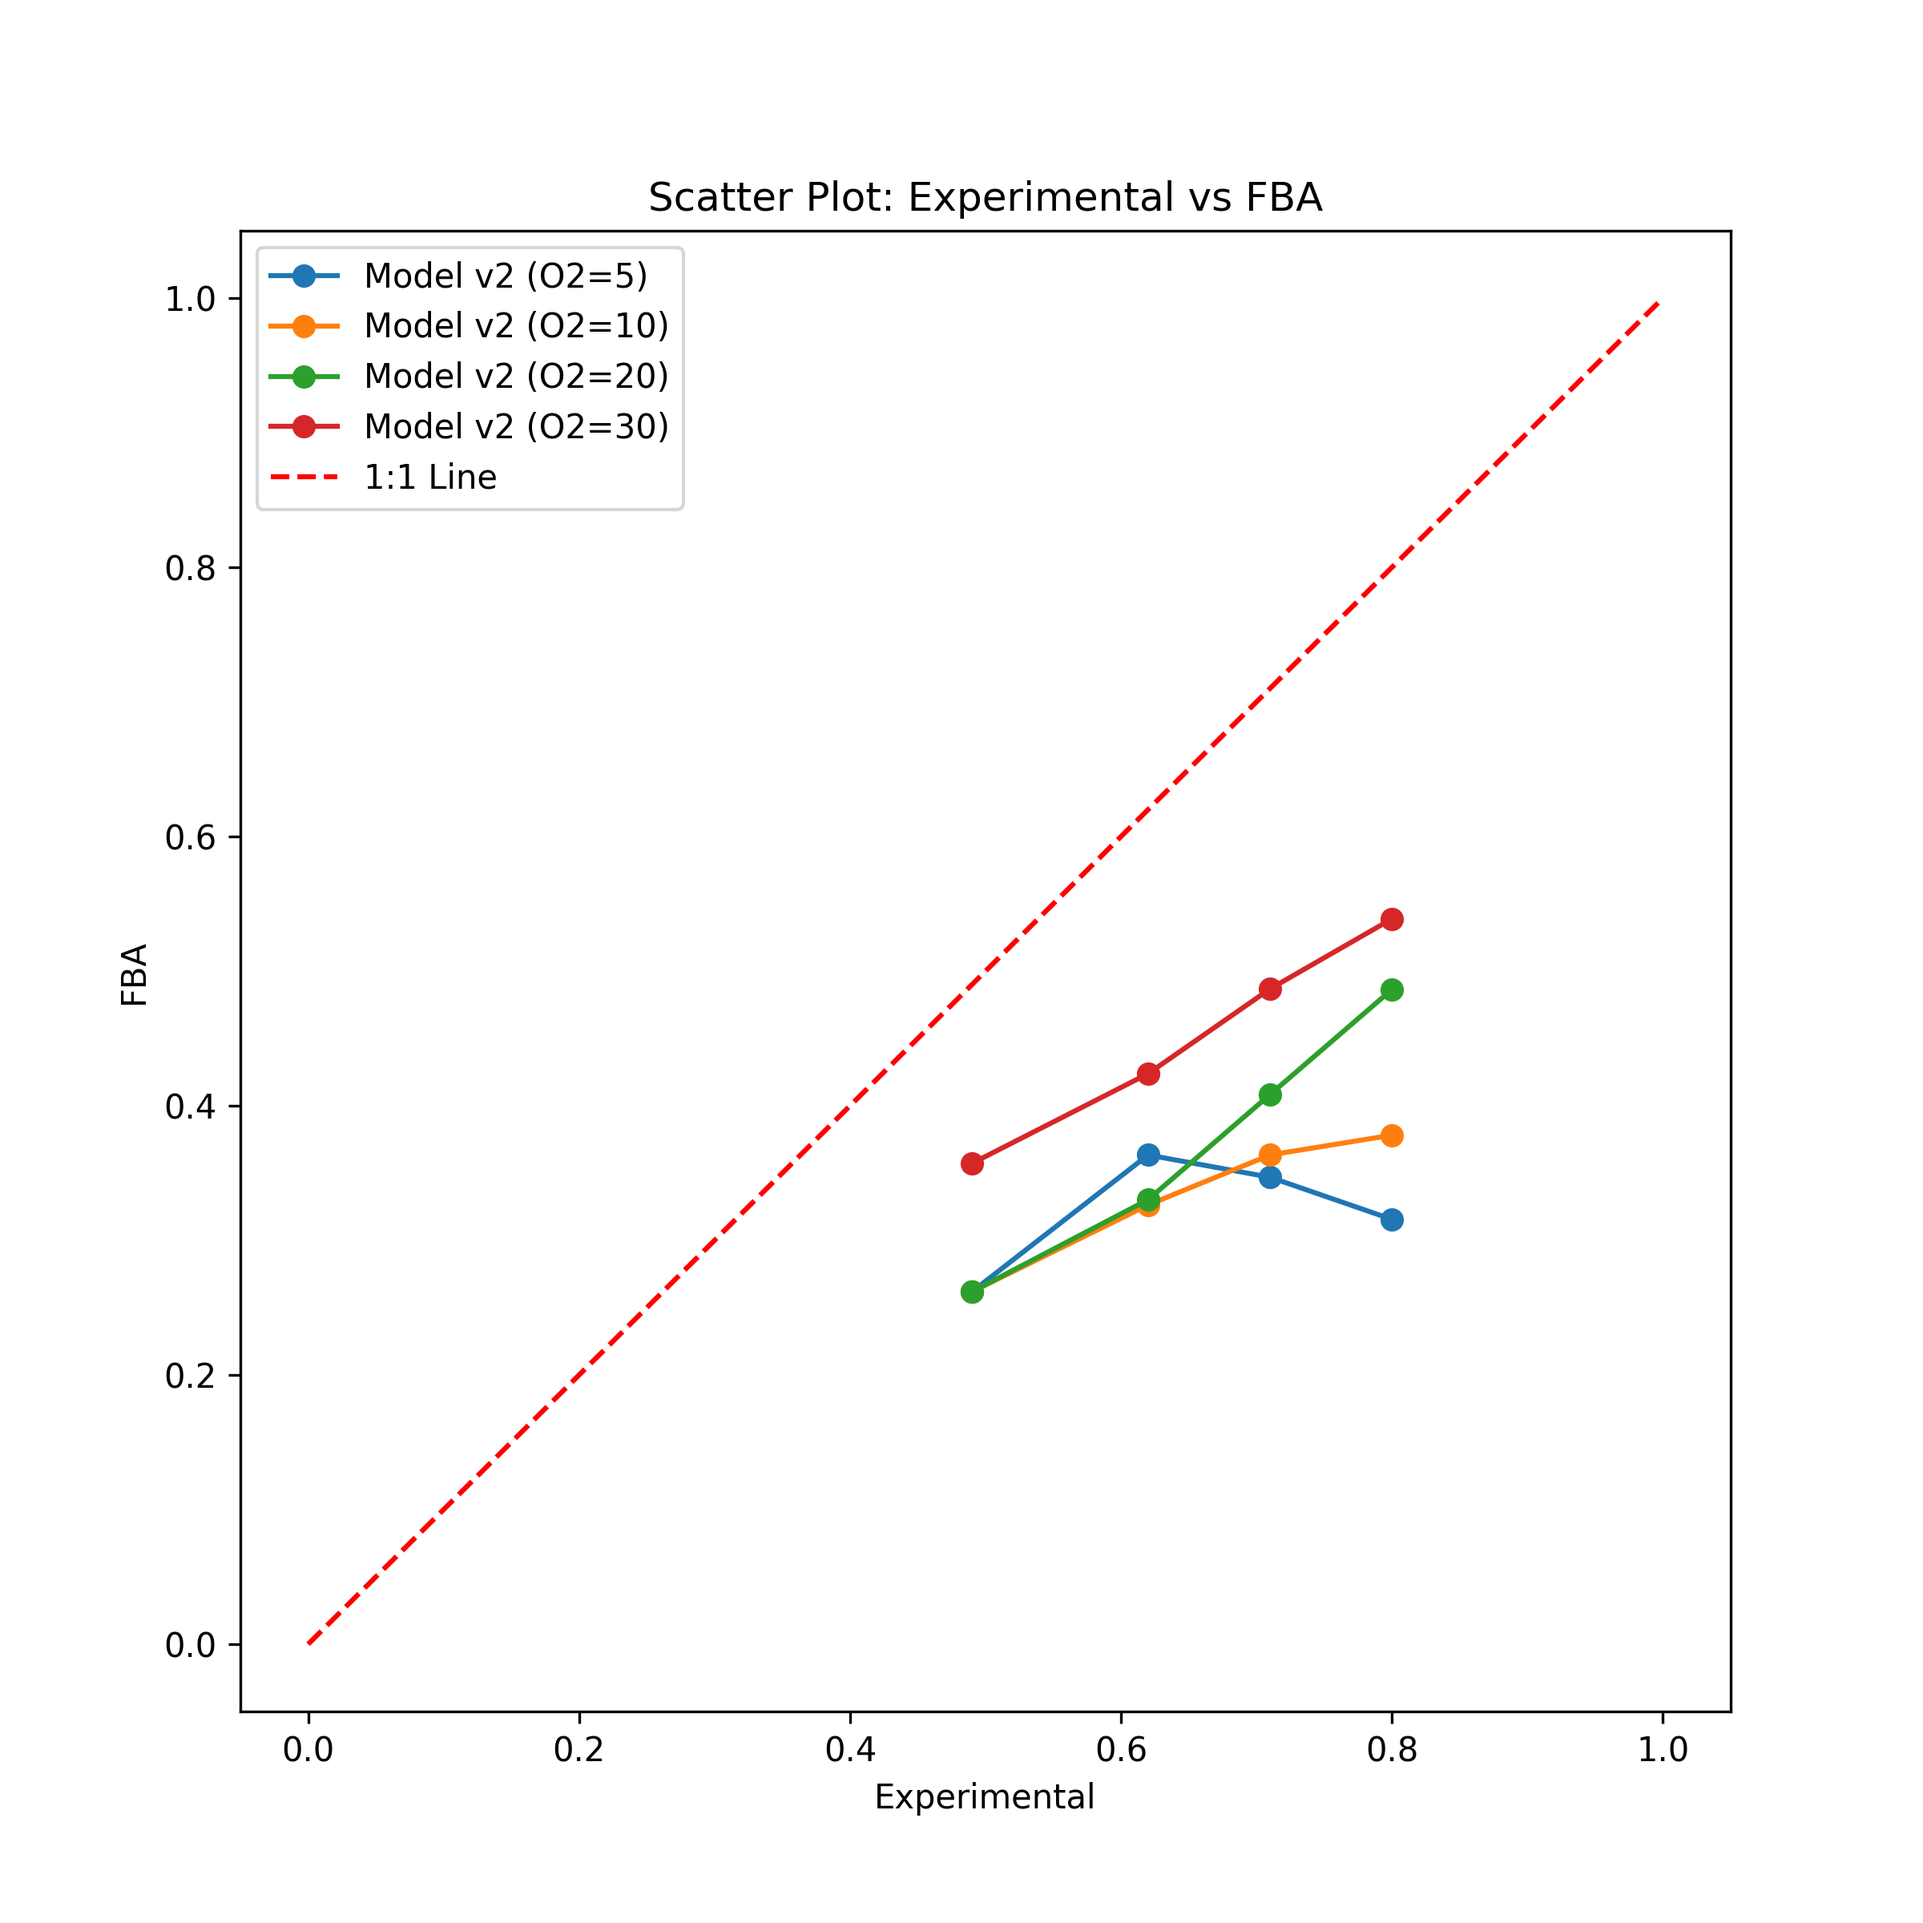
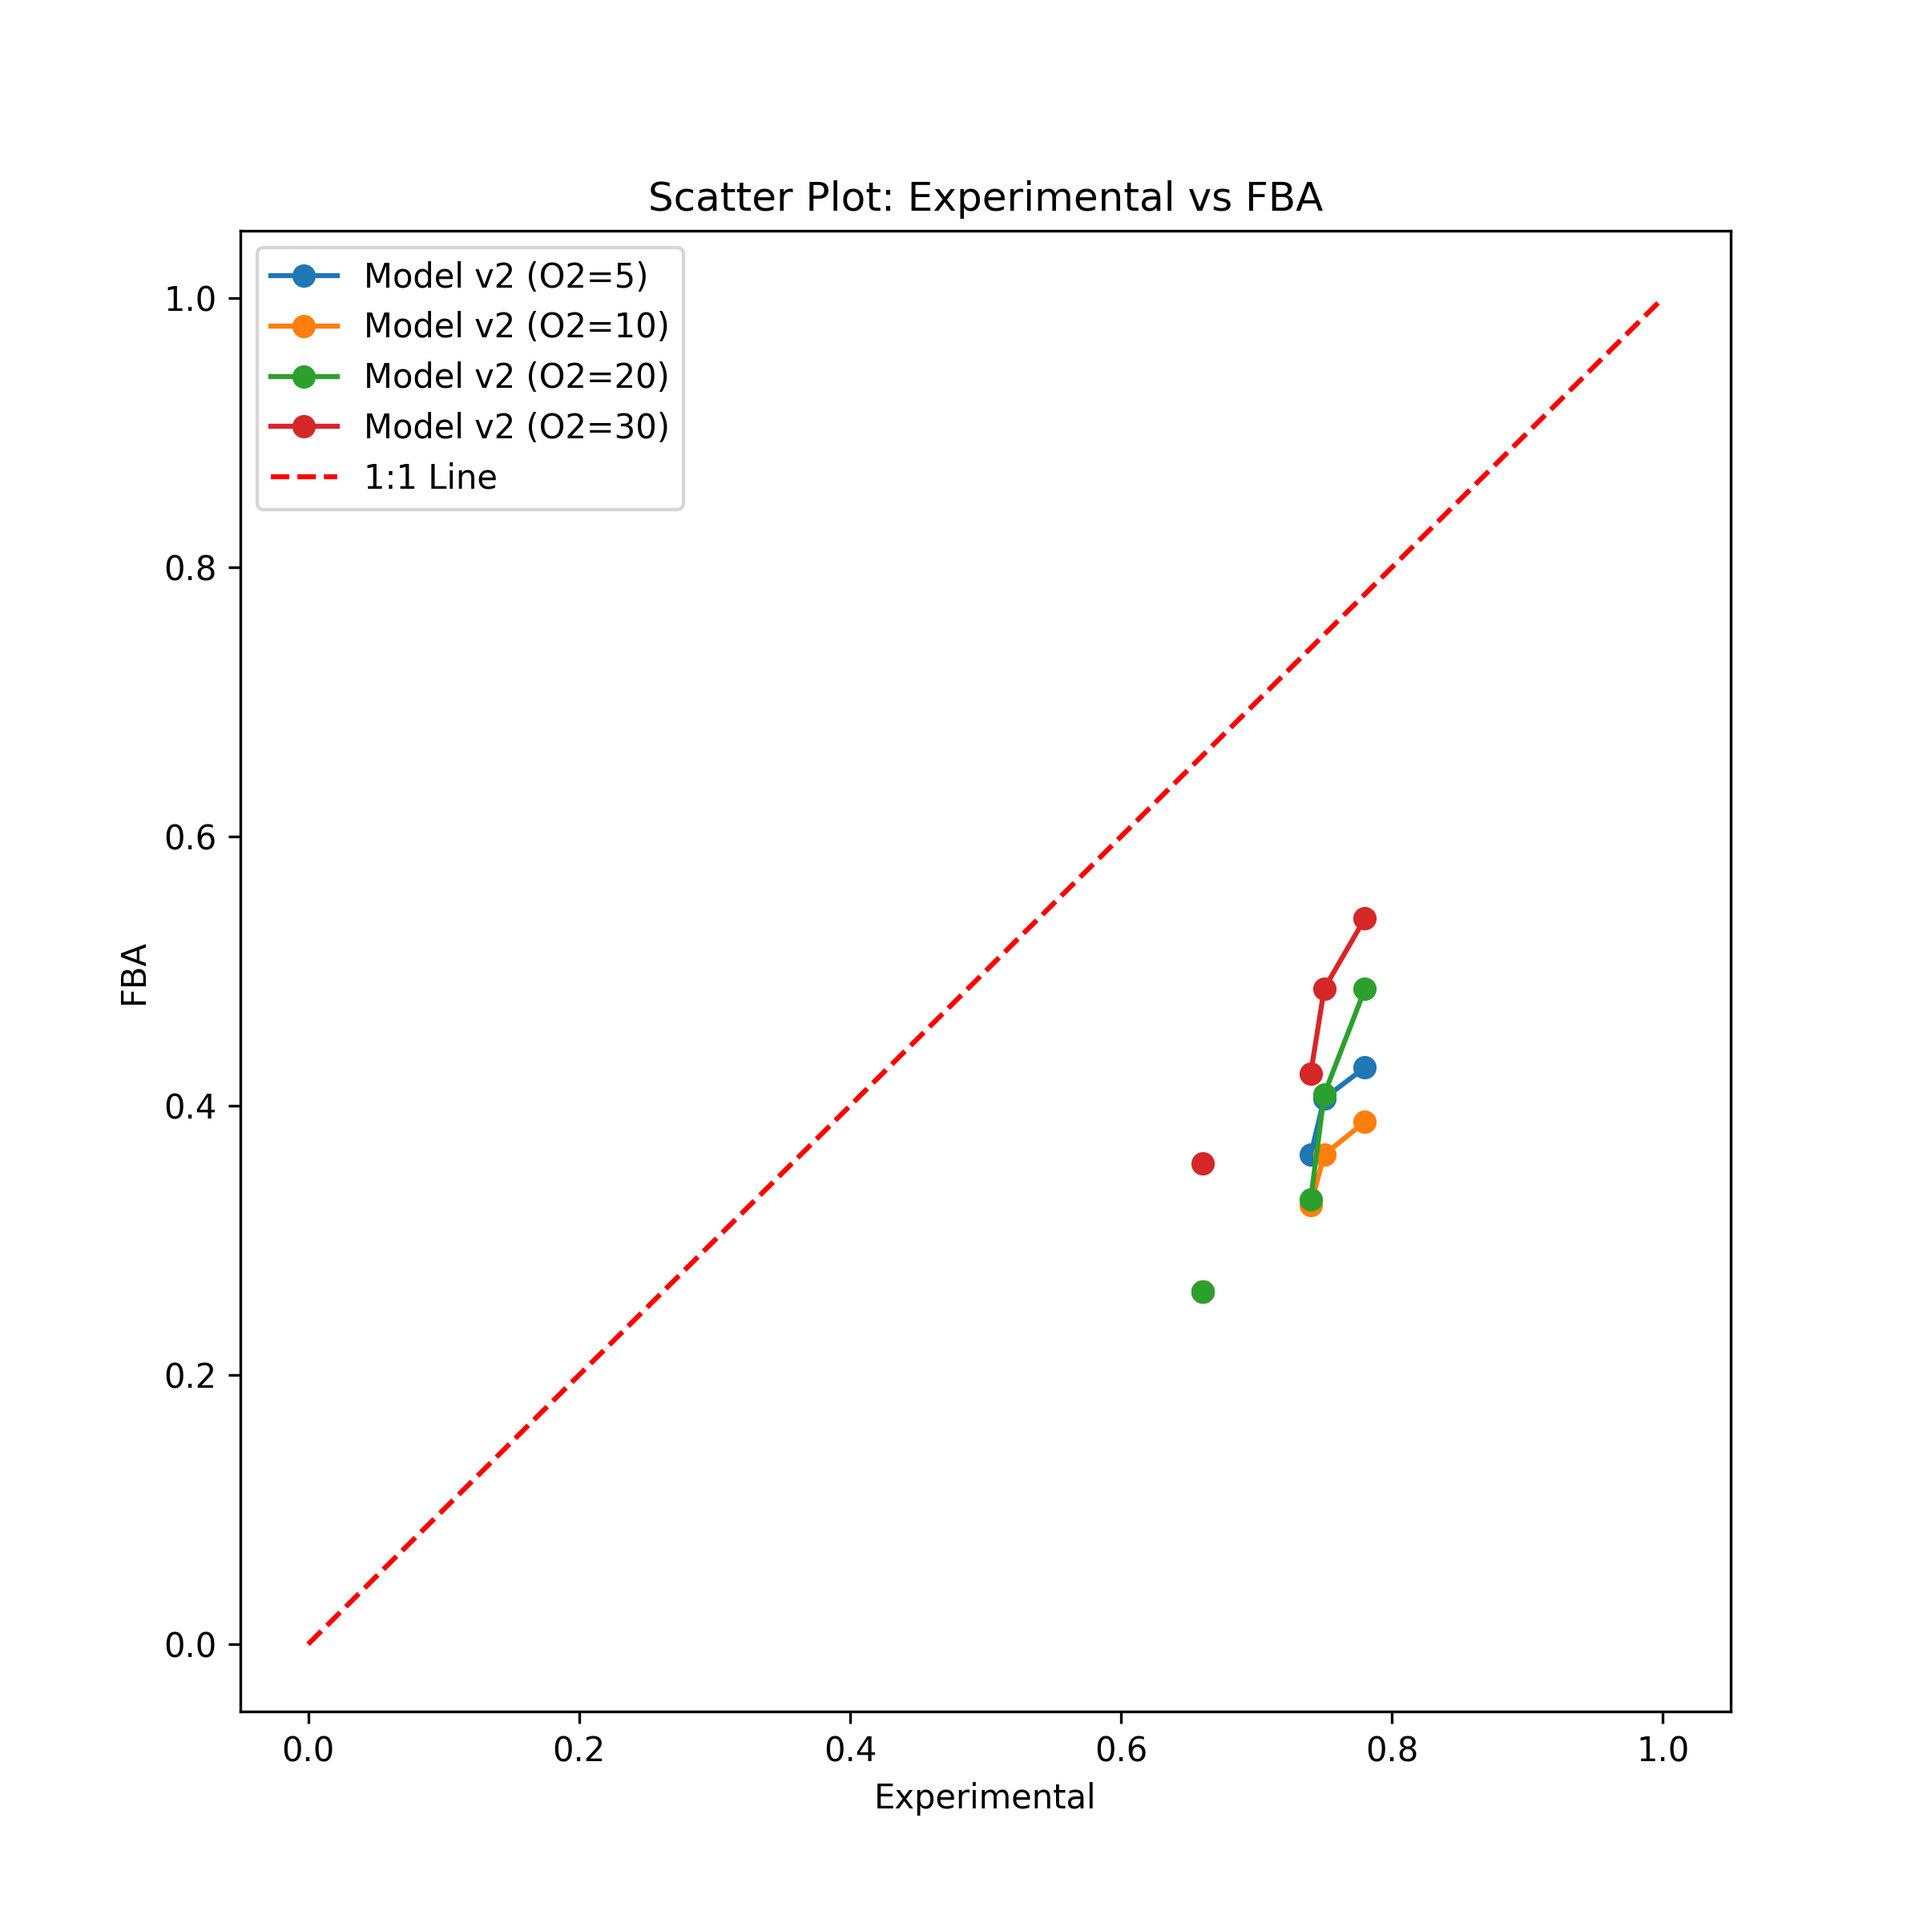
Use latest BGE values

diff --git a/mit1002_full/glc_and_ace/vs_experimental/plot_exp_vs_pred_cue.py b/mit1002_full/glc_and_ace/vs_experimental/plot_exp_vs_pred_cue.py
@@ -13,20 +13,20 @@ if not os.path.exists(OUT_DIR):
 
 # Load the experimental results
 # TODO: Recalculate the values myself from the raw data
-# For now I'll just hardcode the values with what I had on the slide I
-# presented at the all center meeting in Oct 2024, but I'm not entirely
-# sure where those values came from/if they are correct
+# For now I'll just hardcode the values with what is in the "BGE for Helen"
+# spreadsheet from Mary Ann
 # Define the columns of the dataframe to be the different conditions
 data = {
-    "Glucose Only": [0.80],
-    "Acetate Only": [0.49],
-    "Glucose Heavy Mix": [0.71],
-    "Acetate Heavy Mix": [0.62],
+    "Glucose Only": [0.78],
+    "Acetate Only": [0.66],
+    "Glucose Heavy Mix": [0.75],
+    "Acetate Heavy Mix (Early)": [0.74],
+    "Acetate Heavy Mix (Late)": [0.66],
 }
 # Convert data to a pandas DataFrame
-gge_df = pd.DataFrame(data)
+bge_df = pd.DataFrame(data)
 # Set the index of the row to be a helpful name
-gge_df.index = ["Experimental"]
+bge_df.index = ["Experimental"]
 
 # Load the FBA-predicted results
 fba_data = pd.read_csv(
@@ -34,67 +34,67 @@ fba_data = pd.read_csv(
 )
 
 # Add the FBA-predicted results to the dataframe
-gge_df.loc["FBA (O2=5)"] = {
-    "Glucose Only": fba_data.loc["Glucose Only(O2 = 5)_fba", "gge"],
-    "Acetate Only": fba_data.loc["Acetate Only(O2 = 5)_fba", "gge"],
-    "Glucose Heavy Mix": fba_data.loc["Glucose Heavy Mix(O2 = 5)_fba", "gge"],
-    "Acetate Heavy Mix": fba_data.loc["Acetate Heavy Mix(O2 = 5)_fba", "gge"],
+bge_df.loc["FBA (O2=5)"] = {
+    "Glucose Only": fba_data.loc["Glucose Only(O2 = 5)_fba", "bge"],
+    "Acetate Only": fba_data.loc["Acetate Only(O2 = 5)_fba", "bge"],
+    "Glucose Heavy Mix": fba_data.loc["Glucose Heavy Mix(O2 = 5)_fba", "bge"],
+    "Acetate Heavy Mix (Early)": fba_data.loc["Acetate Heavy Mix(O2 = 5)_fba", "bge"],
 }
-gge_df.loc["FBA (O2=10)"] = {
-    "Glucose Only": fba_data.loc["Glucose Only(O2 = 10)_fba", "gge"],
-    "Acetate Only": fba_data.loc["Acetate Only(O2 = 10)_fba", "gge"],
-    "Glucose Heavy Mix": fba_data.loc["Glucose Heavy Mix(O2 = 10)_fba", "gge"],
-    "Acetate Heavy Mix": fba_data.loc["Acetate Heavy Mix(O2 = 10)_fba", "gge"],
+bge_df.loc["FBA (O2=10)"] = {
+    "Glucose Only": fba_data.loc["Glucose Only(O2 = 10)_fba", "bge"],
+    "Acetate Only": fba_data.loc["Acetate Only(O2 = 10)_fba", "bge"],
+    "Glucose Heavy Mix": fba_data.loc["Glucose Heavy Mix(O2 = 10)_fba", "bge"],
+    "Acetate Heavy Mix (Early)": fba_data.loc["Acetate Heavy Mix(O2 = 10)_fba", "bge"],
 }
-gge_df.loc["FBA (O2=20)"] = {
-    "Glucose Only": fba_data.loc["Glucose Only(O2 = 20)_fba", "gge"],
-    "Acetate Only": fba_data.loc["Acetate Only(O2 = 20)_fba", "gge"],
-    "Glucose Heavy Mix": fba_data.loc["Glucose Heavy Mix(O2 = 20)_fba", "gge"],
-    "Acetate Heavy Mix": fba_data.loc["Acetate Heavy Mix(O2 = 20)_fba", "gge"],
+bge_df.loc["FBA (O2=20)"] = {
+    "Glucose Only": fba_data.loc["Glucose Only(O2 = 20)_fba", "bge"],
+    "Acetate Only": fba_data.loc["Acetate Only(O2 = 20)_fba", "bge"],
+    "Glucose Heavy Mix": fba_data.loc["Glucose Heavy Mix(O2 = 20)_fba", "bge"],
+    "Acetate Heavy Mix (Early)": fba_data.loc["Acetate Heavy Mix(O2 = 20)_fba", "bge"],
 }
-gge_df.loc["FBA (O2=30)"] = {
-    "Glucose Only": fba_data.loc["Glucose Only(O2 = 30)_fba", "gge"],
-    "Acetate Only": fba_data.loc["Acetate Only(O2 = 30)_fba", "gge"],
-    "Glucose Heavy Mix": fba_data.loc["Glucose Heavy Mix(O2 = 30)_fba", "gge"],
-    "Acetate Heavy Mix": fba_data.loc["Acetate Heavy Mix(O2 = 30)_fba", "gge"],
+bge_df.loc["FBA (O2=30)"] = {
+    "Glucose Only": fba_data.loc["Glucose Only(O2 = 30)_fba", "bge"],
+    "Acetate Only": fba_data.loc["Acetate Only(O2 = 30)_fba", "bge"],
+    "Glucose Heavy Mix": fba_data.loc["Glucose Heavy Mix(O2 = 30)_fba", "bge"],
+    "Acetate Heavy Mix (Early)": fba_data.loc["Acetate Heavy Mix(O2 = 30)_fba", "bge"],
 }
-gge_df.loc["FBA (O2=1000)"] = {
-    "Glucose Only": fba_data.loc["Glucose Only(O2 = 1000)_fba", "gge"],
-    "Acetate Only": fba_data.loc["Acetate Only(O2 = 1000)_fba", "gge"],
-    "Glucose Heavy Mix": fba_data.loc["Glucose Heavy Mix(O2 = 1000)_fba", "gge"],
-    "Acetate Heavy Mix": fba_data.loc["Acetate Heavy Mix(O2 = 1000)_fba", "gge"],
+bge_df.loc["FBA (O2=1000)"] = {
+    "Glucose Only": fba_data.loc["Glucose Only(O2 = 1000)_fba", "bge"],
+    "Acetate Only": fba_data.loc["Acetate Only(O2 = 1000)_fba", "bge"],
+    "Glucose Heavy Mix": fba_data.loc["Glucose Heavy Mix(O2 = 1000)_fba", "bge"],
+    "Acetate Heavy Mix (Early)": fba_data.loc["Acetate Heavy Mix(O2 = 1000)_fba", "bge"],
 }
 
 # Order the columns in increasing order (for the Experimental data)
-gge_df_sorted = gge_df[gge_df.loc['Experimental'].sort_values().index]
+bge_df_sorted = bge_df[bge_df.loc["Experimental"].sort_values().index]
 
 # Plot the predicted vs experimental
 # Transpose the DataFrame to make rows into columns for easier plotting
-gge_df_transposed = gge_df_sorted.T
+bge_df_transposed = bge_df_sorted.T
 
 # Create a scatter plot of the two rows for each of the conditions
 plt.figure(figsize=(8, 8))
 plt.plot(
-    gge_df_transposed["Experimental"],
-    gge_df_transposed["FBA (O2=5)"],
+    bge_df_transposed["Experimental"],
+    bge_df_transposed["FBA (O2=5)"],
     marker="o",
     label="Model v2 (O2=5)",
 )
 plt.plot(
-    gge_df_transposed["Experimental"],
-    gge_df_transposed["FBA (O2=10)"],
+    bge_df_transposed["Experimental"],
+    bge_df_transposed["FBA (O2=10)"],
     marker="o",
     label="Model v2 (O2=10)",
 )
 plt.plot(
-    gge_df_transposed["Experimental"],
-    gge_df_transposed["FBA (O2=20)"],
+    bge_df_transposed["Experimental"],
+    bge_df_transposed["FBA (O2=20)"],
     marker="o",
     label="Model v2 (O2=20)",
 )
 plt.plot(
-    gge_df_transposed["Experimental"],
-    gge_df_transposed["FBA (O2=30)"],
+    bge_df_transposed["Experimental"],
+    bge_df_transposed["FBA (O2=30)"],
     marker="o",
     label="Model v2 (O2=30)",
 )
